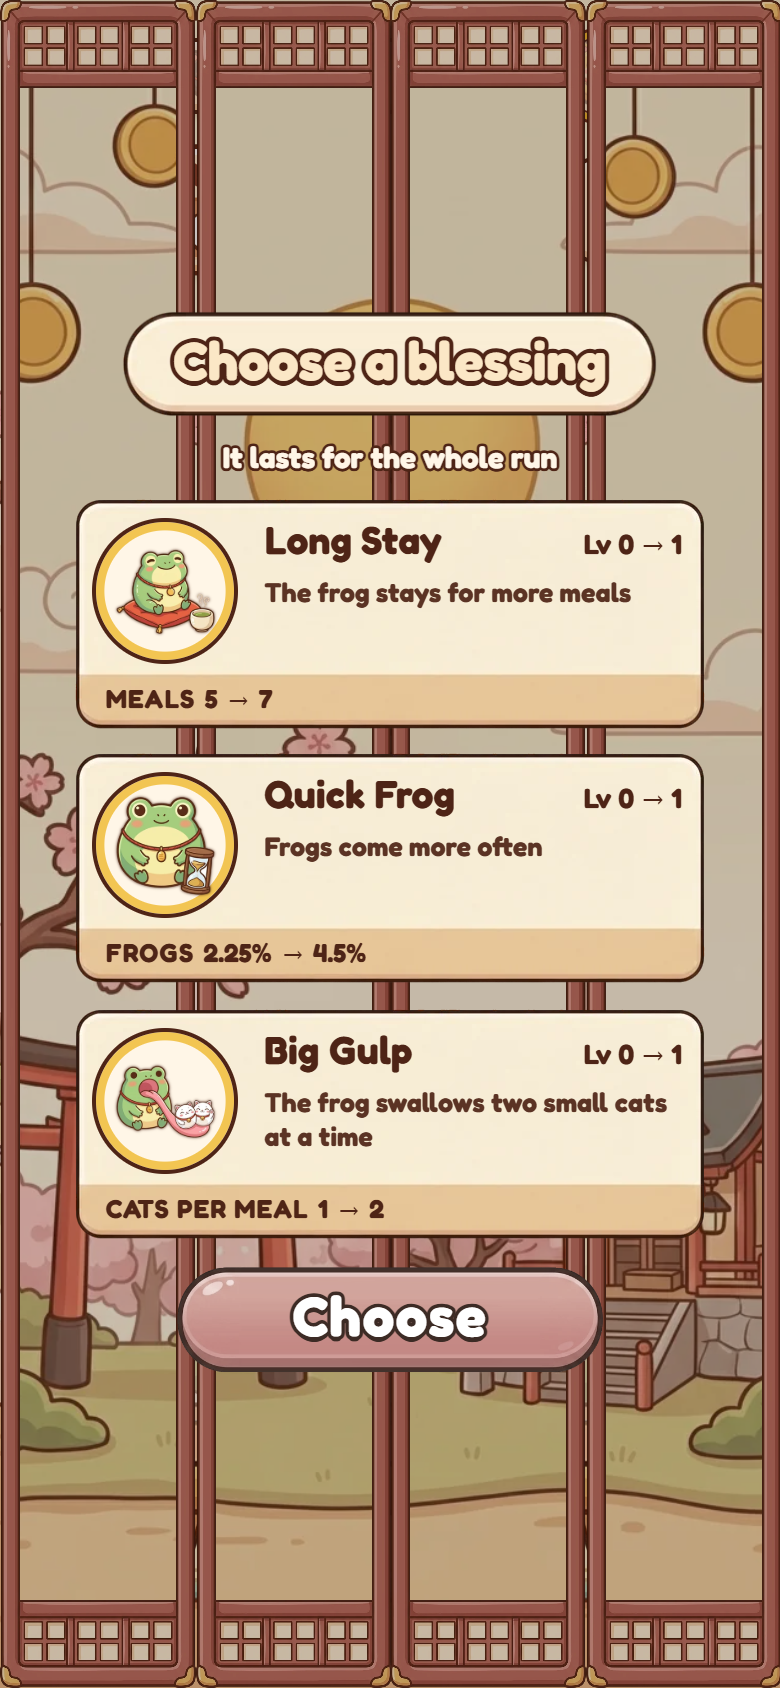
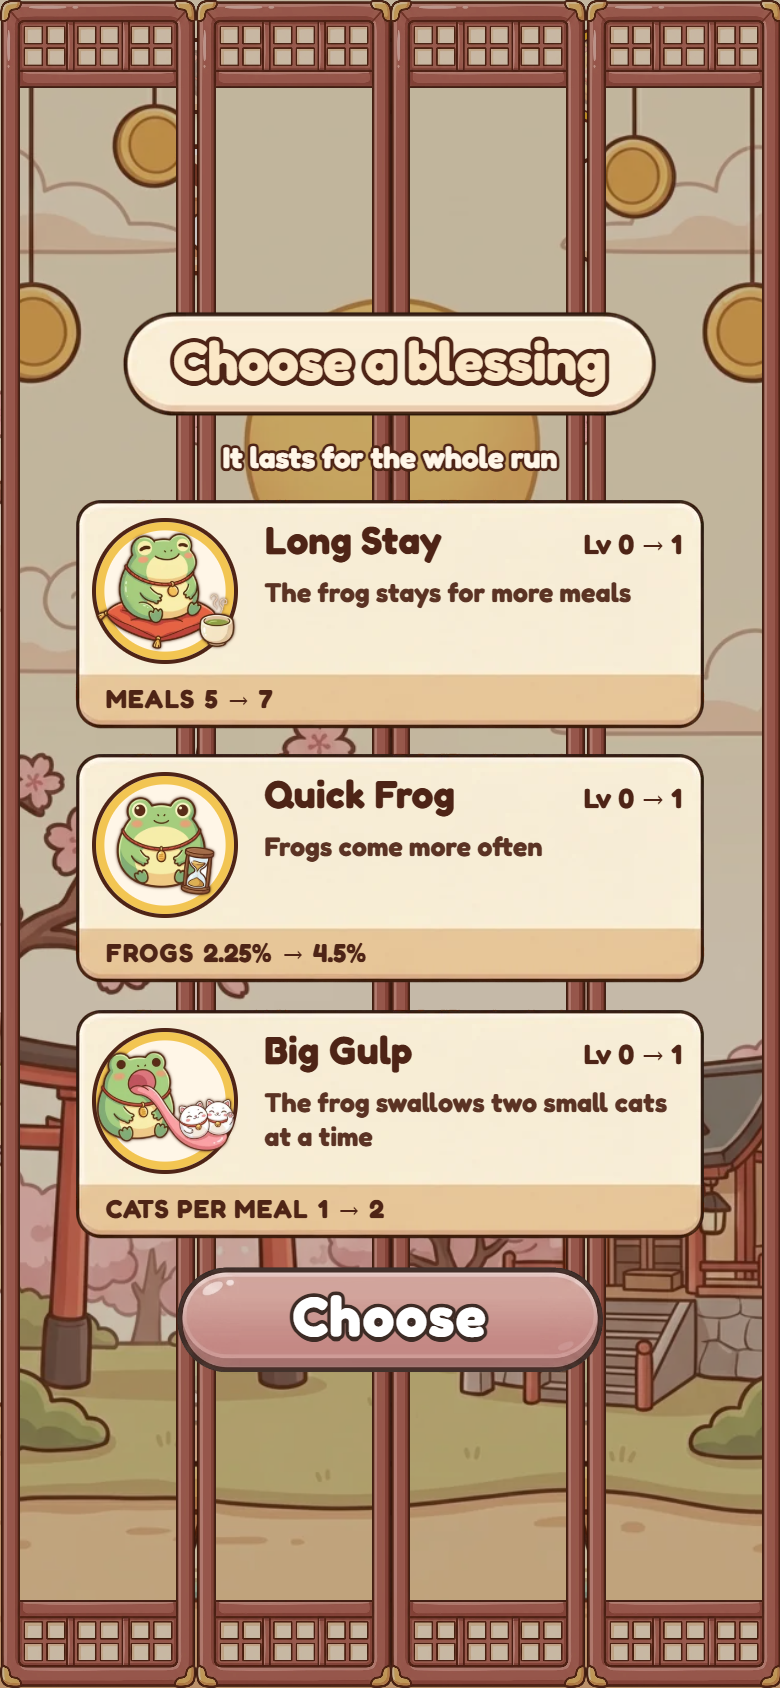
docs: v0.56.6, bigger Long Stay and Big Gulp pictures

Changed region(s): [[0.1231, 0.3081, 0.3077, 0.4005], [0.1231, 0.6161, 0.3077, 0.7085]]

diff --git a/docs/GAME_DESIGN.md b/docs/GAME_DESIGN.md
@@ -902,7 +902,7 @@ A weapon that cuts every small cat in a straight line.
 
 A weapon that stays in the jar and eats the small cats.
 
-- **Picks:** taking **Frog** once (a blessing pick) opens it: frogs start to come, 2.25% per queued item. Its upgrades are blessing picks of their own that need it, like the Katana's (§15.16): **Quick Frog** (+2.25% per level, 2 levels, up to 6.75%), **Long Stay** (+2 meals per level, 2 levels: 5, 7, 9) and **Big Gulp** (two cats at each meal, 1 level). Each needs a level of the Frog's shop card (§10). On the pick cards the Frog shows the calm frog and each of its upgrades its own picture of the frog (docs/ART_ASSETS.md §4.22): Quick Frog with an hourglass (v0.56.3), Long Stay settled on a cushion with tea (v0.56.4), Big Gulp's tongue catching two cats at once (v0.56.5).
+- **Picks:** taking **Frog** once (a blessing pick) opens it: frogs start to come, 2.25% per queued item. Its upgrades are blessing picks of their own that need it, like the Katana's (§15.16): **Quick Frog** (+2.25% per level, 2 levels, up to 6.75%), **Long Stay** (+2 meals per level, 2 levels: 5, 7, 9) and **Big Gulp** (two cats at each meal, 1 level). Each needs a level of the Frog's shop card (§10). On the pick cards the Frog shows the calm frog and each of its upgrades its own picture of the frog (docs/ART_ASSETS.md §4.22): Quick Frog with an hourglass (v0.56.3), Long Stay settled on a cushion with tea (v0.56.4), Big Gulp's tongue catching two cats at once (v0.56.5). Long Stay's and Big Gulp's are drawn 1.4 times bigger, reaching a little over the medallion's rim (v0.56.6, the owner's call).
 - **The drop:** none comes in a stage's first 20 drops, and a queued one becomes a cat at a stage clear (§15.1). It is a ball of **size 3**, dropped from the paw like the others (the wind and Heavy Drop move it like any ball). In the jar it **rolls like the other balls** (the owner's call: it isn't kept upright), never merges and **doesn't count for the danger line**: it never ends a run, even over the line, and a Lucky Save leaves it alone. The magnet can take it; it keeps its meals.
 - **The meals:** each time a ball leaves the paw (a cat, a special ball or a katana; not the frog's own drop), every frog in the jar, oldest first, makes a meal: its tongue swallows the jar's **smallest landed cat of sizes 1–2** (v0.56.1, the owner's pick; v0.56.0 ate any size), the nearest to it between cats of one size, through anything in the way (Big Gulp: the two smallest). Bigger cats are left alone, so frogs never empty the jar of what its big cats are made from. A ball still falling from the paw isn't in the jar yet. A swallowed cat **pops into its value** (§5: coins, no score, no combo), golden ones at their plain value; a cursed one is swallowed like any other and its curse just ends. A meal counts once, whatever it swallowed; a jar with no landed cat of sizes 1–2 feeds nothing and costs no meal.
 - **Leaving:** after its last meal (5; Long Stay 7 or 9) the frog falls asleep and is gone. A stage clear's pops take it too, paying nothing. A run saved with a frog in the jar keeps its meals left (`hitsLeft`, like a boulder's bands).

diff --git a/CHANGELOG.md b/CHANGELOG.md
@@ -2,6 +2,12 @@
 
 All notable changes to this project are documented here. Versions follow [Semantic Versioning](https://semver.org/).
 
+## [0.56.6] - 2026-10-17
+
+### Changed
+
+- **Long Stay's and Big Gulp's pictures are bigger on their cards** (1.4 times, the owner's call): their frog was small in its square; they now fill the medallion and reach a little over its rim. Easy to take back (`PICK_PICTURE_SCALE` in `ui/pickArt.ts`).
+
 ## [0.56.5] - 2026-10-17
 
 ### Changed
